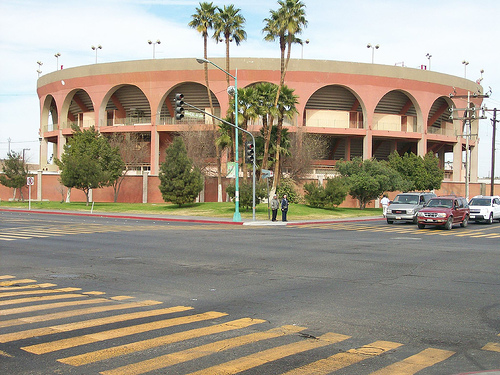
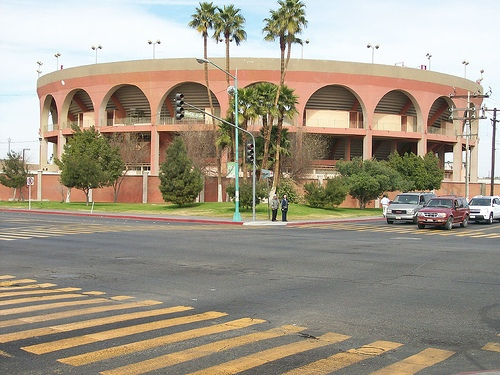
W02 Home Page Enhancement fixes

diff --git a/styles/styles.css b/styles/styles.css
@@ -1,3 +1,18 @@
+nav {
+    background-color: steelblue;
+    padding: 10px;
+}
+
+nav a {
+    color: white;
+    padding: 20px;
+    display: block;
+}
+
+h1 {
+    color: steelblue;
+}
+
 main {
     max-width: 840px;
 }
@@ -19,6 +34,9 @@ aside img {
 main img {
     width: 150px;
     height: auto;
+    border: 1px solid steelblue;
+    padding: 2px;
+    box-shadow: 0 0 30px gray;
 }
 
 p {
